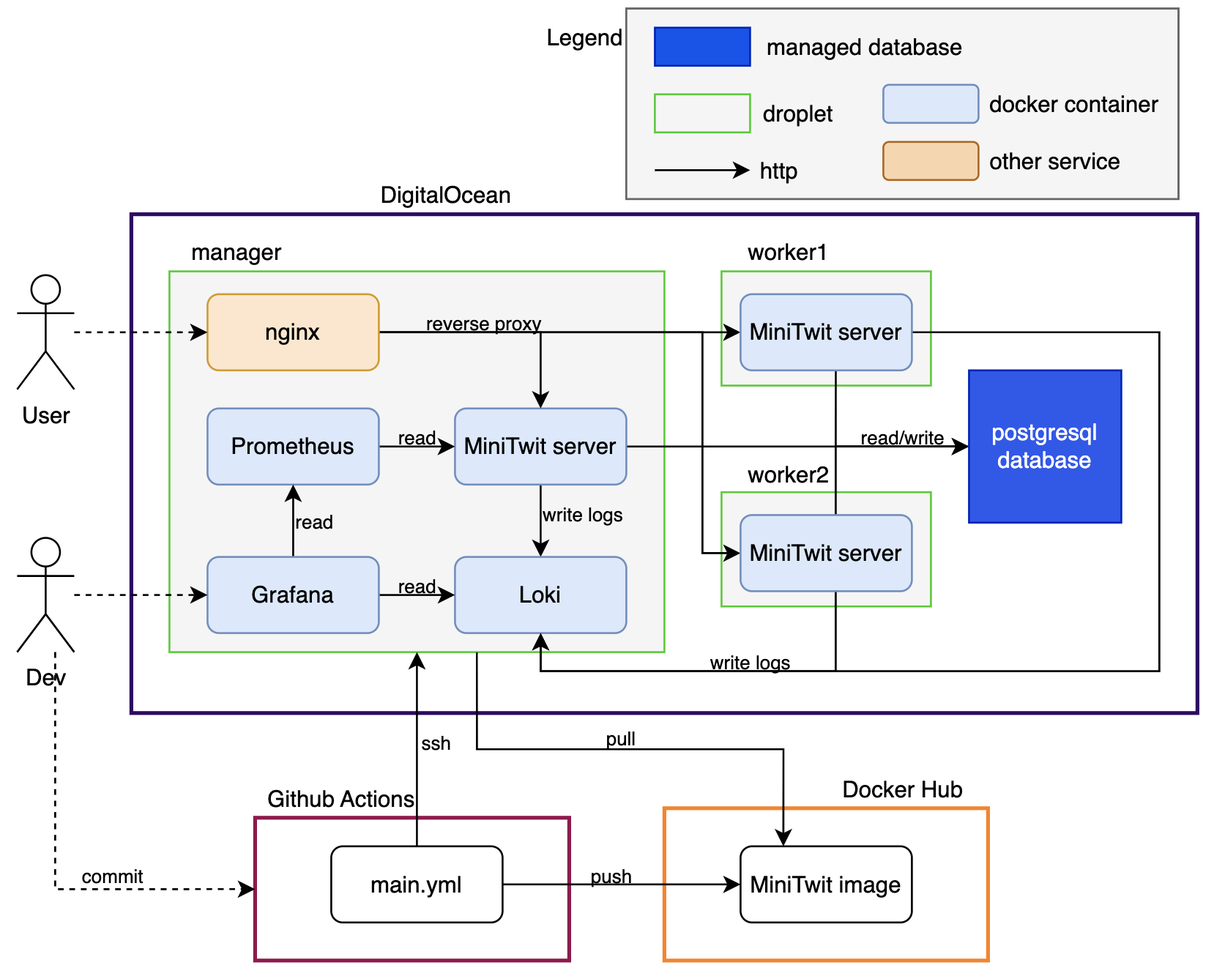
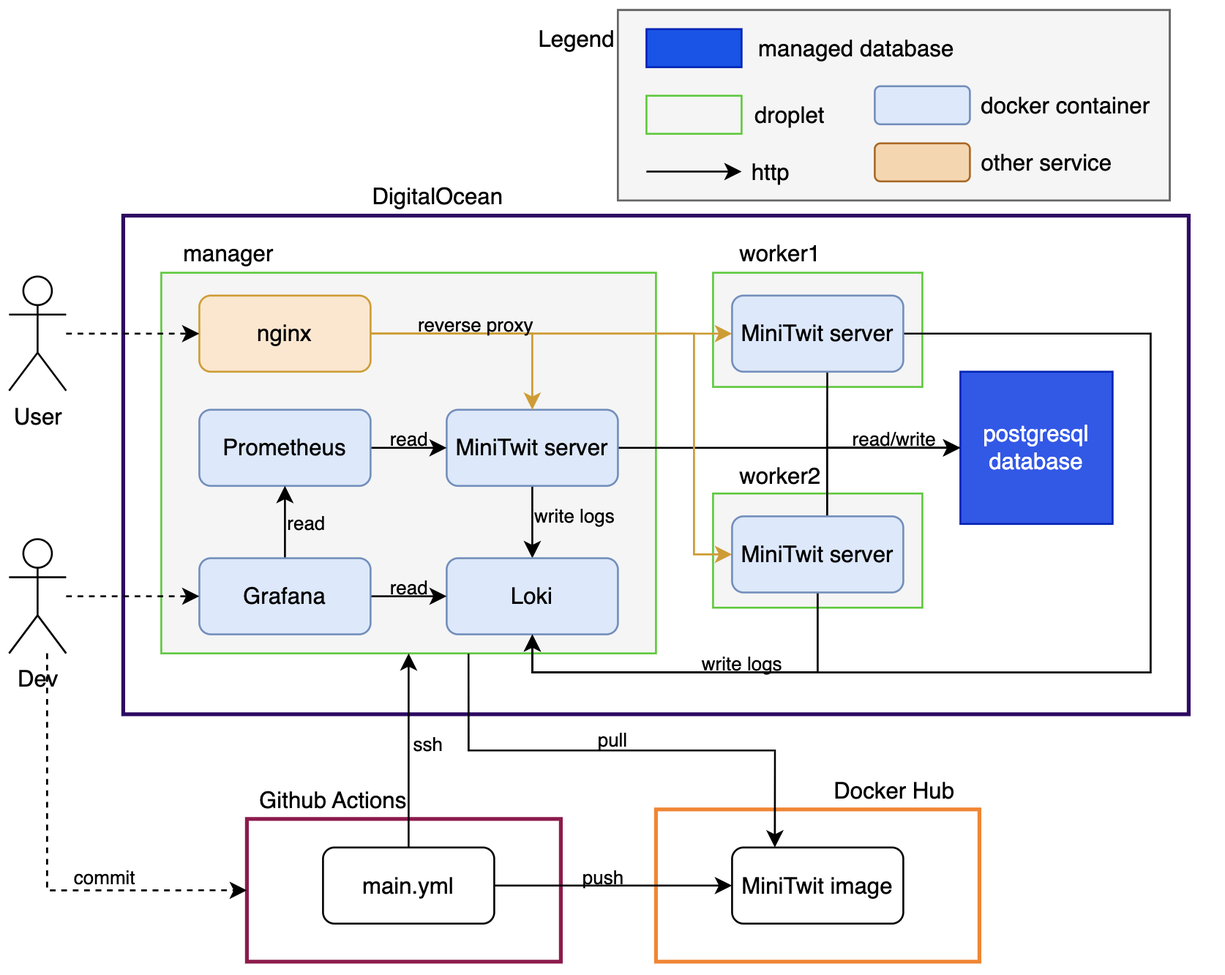
ci: Push final report

diff --git a/report/2_process_perspective.tex b/report/2_process_perspective.tex
@@ -31,76 +31,81 @@ Within the period where the project was worked on, the team formed some rules an
 
 \noindent To ensure flow, we did the following:
 \begin{itemize}
-    \item Made work visible by using the GitHub Kanban board.
-    \item Reduced batch sizes by focusing on getting one feature done before moving focus to another.
-    \item Reduced the number of handoffs by only working on a few features at a time,
-    \item Continually identified and evaluated constraints using GitHub issues if problems occurred.
-    \item Eliminated hardship and waste in the value stream by implementing automatic releases in our pipeline.
+    \item Mostly through communication on discord, but also through the use of Github projects, we made work visible and transparent for each other. % make work visible
+    \item Utilized a small batch strategy, where single features are developed, pushed, and deployed at a time. % reduce batch sizes
+    \item By utilizing continuous integration and deployment we limited the amount of intermediary steps, which had to be manually executed. % reduze handoffs
+    \item By being aware of what limitations our architecture and processes bring. Early on we realized that our CI/CD tools making a new database at each deployment was not a good idea, and moved to a managed database. %evaluate constraints 
+    \item We tried to reduce working on tasks which did not grant any value to the customer by minimizing dead code, feature switching, and manual work. %eliminate hardships
 \end{itemize}
 
 \noindent To ensure feedback, we did the following:
 \begin{itemize}
-    \item Discovered problems as they occurred and communicated them to the team.
-    \item Swarmed and solved problems to build new knowledge and share that knowledge with the rest of the group.
-    \item Kept pushing quality closer to the source using a trunk-based strategy that tested each push to the main branch.
+    \item We used logs, monitoring, and testing to automate quality checking and see problems as they occurred, and communicated them to the team, if they could not be solved immediately. % see problems as they occur
 \end{itemize}
 
 \noindent To ensure continual learning and experimentation, we did the following:
 \begin{itemize}
-    \item Institutionalized the improvement of daily work by keeping an open discussion about what we can do better.
-    \item Ensuring a learning culture by sharing knowledge at weekly meetings.
+    \item We kept an open discussion about what we could improve and automatize in our work such as when we automatized releases.
+    \item Ensuring a learning culture by sharing knowledge at weekly meetings and being open about personal strengths and weaknesses. 
 \end{itemize}
 
 \subsubsection{Working schedule}
-The team's interaction has been physical at ITU and online through Discord. The primary working day was Tuesday after the exercise session. First, we solved the exercises together and then implemented the feature in our system. If there were leftover work, we would split into subgroups, as different schedules made it difficult to meet physically more than once a week. Since most of the features and tools were new to the group, the overall focus was on implementing and correctly using them. This led us to use pair programming, where one team member shared his screen, and others provided input. The other team members would write code individually if the work were trivial. Furthermore, the team members who were not sharing their screens would, under any circumstances, try to test or solve things on their machines. This was to speed up the process, especially when working with something we did not initially understand. \\
+The team's interaction has been physical at ITU and online through Discord. The primary working day was Tuesday after the exercise session. First, we solved the exercises together and then implemented the feature in our system. If there were leftover work, we would split into subgroups, as different schedules made it difficult to meet physically more than once a week. Since most of the features and tools were new to the group, the overall focus was on implementing and correctly using them. This led us to use pair programming, where one team member shared his screen, and others provided input. The other team members would write code individually if the work were trivial. This was to speed up the process, especially when working with something we did not initially understand.
 
 We incorporated retrospectives from Scrum every Tuesday before we began working on the following week's tasks. This means that we discussed what had been implemented since last Tuesday to share our individual knowledge with the group.
 
 \subsection{CI/CD}
-We used GitHub Actions to implement our CI/CD. Our CI/CD consists of test, deploy, release, and code quality analyzer. We used Trunk Based Development, where every developer shared the same trunk branch. Every developer pushed to the main branch for efficiency. Upon push, GitHub Actions will run the following steps:
+We used GitHub Actions to implement our CI/CD. Our CI/CD consists of test, deploy, release, and code quality analyzer. When a developer pushes his commits, GitHub Actions will run the following steps:
 
 \subsubsection{Code quality analyzer}
-SonarCloud was used as a code quality analyzer to analyze the technical debt of the code base. Our repository contains badges about technical debt, security, vulnerabilities, and bugs based on the latest commit to SonarCloud. We also used the C\# linting tool \textit{code-cracker}, but this was only used when building on developer machines and not a part of the workflow. Furthermore, we have used Snyk to scan the project, which is not part of the workflow.
+SonarCloud was used as a code quality analyzer to analyze the technical debt of the code base. Our repository contains badges about technical debt, security, vulnerabilities, and bugs based on the latest commit to SonarCloud. We also used the C\# linting tool \textit{code-cracker}, but this was only used when building on developer machines and not a part of the workflow. Furthermore, we have used Snyk to scan the project, which is not part of the workflow either.
 
-\subsubsection{Test}
-We have different tests as a quality gate before deploying and releasing. First, we have a smoke test to verify that essential elements of the application are functional. Second, we use integration tests to test the API. Last, we use Selenium for end-to-end tests.
+\subsubsection{Build and Test}
+We have different tests as a quality gate before deploying and releasing. We have refactored and expanded the Python tests from the exercises. The system is built on the workflow server via Docker-Compose. First, we have a smoke test to verify that essential elements of the application are functional. Second, we use integration tests to test the API. Last, we use Selenium for end-to-end tests. The Python tests interact with the system via HTTP.
 
 \subsubsection{Deployment}
-If the tests are successful, the push will be deployed. We have omitted code reviews and branches to push new code faster. This is to prevent potential dead, local code that is not being used since we value that our code should be used when it works.
+If the tests are successful, the push will be deployed. First the new image for the application server is pushed to Docker Hub. Then, via ssh, a script is executed on the deployed manager node which pulls the image and redeploys the system.
+
+%We have omitted code reviews and branches to push new code faster. This is to prevent potential dead, local code that is not being used since we value that our code should be used when it works.
 
 \subsubsection{Release}
-After deploying the application, we use Versionize and Husky for automatic releases on GitHub.
+After deploying the application, we use Versionize and Husky for automatic releases on GitHub. Husky is a linter for commit messages, which checks that a commit message contains the right format. Versionize increments the release version when desired. If the deploy was successful, and the commit message increments the release tag, then our pipeline creates a new release.
 
 \subsection{Repository organization}
-We use a mono repository for our source code, both frontend, and backend. As mentioned, we have a trunk-based development, meaning developers push directly to the main branch. If the commits pass the GitHub Workflow, then they will be released. We omitted code reviews because we thought it took too much time to do them, and since we often worked together physically, we mostly already knew what each other had written. Initially, we considered using it for knowledge sharing. However, since we used pair programming, we already had a way of knowledge sharing. Since we did not have code reviews, we wanted to be able to release code as fast as possible, which is why we used trunk-based development.
+We use a mono repository for our source code. We have a trunk-based development, meaning developers push directly to the main branch. If the commits pass the GitHub Workflow, then they will be released. We omitted code reviews because we thought it took too much time to do them. Initially, we considered using it for knowledge sharing. However, since we used pair programming, we already had a way of knowledge sharing. This way we could release new code fast.
 
 \subsection{Development Process}
-To track issues and which tasks need to be done, we have to some degree, utilized GitHub Projects, which provides Kanban boards. We have not used this feature rigorously since the course structure already provided some structure of what needed to be done and when. The primary usage has been when we split our group into many parts (individual work) and needed to keep track of it. Mostly development has happened in group work, either all together or split into two groups. Since our project and group size are manageable, it is still possible to hold developers accountable by reviewing the commit history. However, a more rigorous use of the Kanban board would have made it possible to measure implementation progress retroactively. 
+To keep track of issues and tasks which need to be done, we have experimented with using GitHub Projects as a Kanban board. We have not used this feature rigorously since the course structure already provided some structure of what needed to be done and when. The primary usage has been when we split our group into many parts (individual work) and needed to keep track of it. Mostly development has happened in group work, either all together or split into two groups. Since our project and group size are relatively small, it is still possible to hold developers accountable by reviewing the commit history. However, a more rigorous use of the Kanban board would have made it possible to measure implementation progress retroactively. 
 
 \subsection{Monitoring \& Logging}
-During the lifetime of a system, it is rare for everything to work smoothly and without any problems. System components will break down. The system will crash in production, server response times will grind to a halt, and so on. To (1) be able to estimate when the system is not operating within the expected limits and (2) be able to track down the source of this disturbance, it is necessary to have monitoring and logging setup in the project. \\
+During the lifetime of a system, it is rare for everything to work smoothly and without any problems. System components will break down. The system will crash in production, server response times will grind to a halt, and so on. To (1) be able to estimate when the system is not operating within the expected limits and (2) be able to track down the source of this disturbance, it is necessary to have monitoring and logging setup in the project.
 
-Our monitoring is done via Grafana dashboards, where we have created two dashboards: One for system metrics (RAM, CPU usage, response times) and one for business logic (active users, timeline requests, number of tweets made). When the first dashboard showed irregular behavior, it was a sign that our virtual machine in the cloud required scaling - or that poorly performing code had been pushed recently. When the second dashboard showed irregular behavior, it was a sign that our website was not deployed properly and was inaccessible to users or that some recently pushed code had broken core functionality. \\
+Our monitoring is done via Grafana dashboards, where we have created two dashboards: One for system metrics (RAM, CPU usage, response times) and one for business logic (active users, timeline requests, number of tweets made). When the first dashboard showed irregular behavior, it was a sign that our virtual machine in the cloud required scaling - or that poorly performing code had been pushed recently. When the second dashboard showed irregular behavior, it was a sign that our website was not deployed properly and was inaccessible to users or that some recently pushed code had broken core functionality.
 
-We have implemented a logging tool to track how many requests our system has in real-time. Each time a new user is created, an existing user logs in, a user makes a post, or a user follows another user, the API call is registered and saved in the logs. This allows us to determine whether or not something is wrong in case these API calls fail. 
+We have implemented logging with Loki and Grafana to track all request the system handles. This allows us to determine whether or not something is wrong in case these API calls fail. We have a dashboard on Grafana that displays errors and all logs. Figure \ref{fig:errors_no_db} shows the logs immediately after destroying the database. Here we can see that errors surface.
+
+%Each time a new user is created, an existing user logs in, a user makes a post, or a user follows another user, the API call is registered and saved in the logs. This allows us to determine whether or not something is wrong in case these API calls fail. 
 
 \begin{figure}[H]
     \centering
-    \subfloat[\centering A snippet of our logs showing the API calls registered]{{\includegraphics[width=0.45\textwidth]{images/logs_good.png} }}%
+    \subfloat[\centering The logs showing the API calls registered]{{\includegraphics[width=0.45\textwidth]{images/logs_good.png} }}%
     \qquad
-    \subfloat[\centering A snippet of our logs when we took down the database]{{\includegraphics[width=0.45\textwidth]{images/logs_bad.png} }}%
-    \caption{2 Figures side by side}%
+    \subfloat[\centering The logs when we took down the database]{{\includegraphics[width=0.45\textwidth]{images/logs_bad.png} 
+    \label{fig:errors_no_db}
+    }}%
+    \caption{Logs.}%
     \label{fig:example}%
 \end{figure}
 
-When we had to change the database, we first had to take it down. This is visible in our logs since we began getting a lot of errors when this was the case. This was ultimately a good sign since it meant that if something were wrong in our system, we would be able to see it immediately and fix it as fast as possible. \\
+%When we had to change the database, we first had to take it down. This is visible in our logs since we began getting a lot of errors when this was the case. This was ultimately a good sign since it meant that if something were wrong in our system, we would be able to see it immediately and fix it as fast as possible. \\
 
-Whenever we had downtime, new users could not be registered. However, the logs helped us with this since we had a script that could create the users from the logs directly, such that when the system was up and running again, the users who tried to register during downtown would now be registered in the database.
+%Whenever we had downtime, new users could not be registered. However, the logs helped us with this since we had a script that could create the users from the logs directly, such that when the system was up and running again, the users who tried to register during downtown would now be registered in the database.
 
 \subsection{Scaling And Load Balancing}
-Our load balancing is separated for a 'normal' user and the course simulator. When a request is made through the simulator API, we have decided to use a round-robin approach to load balancing, which means the request is just sent to some container. However, when a connection is established through the website, we are using an IP hash approach. This means that the same user is always directed to the same container, which ensures that we do not have to worry about the user changing session states when the connection is renewed. \\
+Our load balancing uses different strategies for a 'normal' user and the course simulator. When a request is made to the \textit{/simulator} endpoint, it uses the round-robin approach, which means the request is sent to any of the active servers, distributing the simulator requests across all the active servers. However, when a connection is established through the website, we are using an IP hash approach. This means that the same user is always directed to the same server, which ensures that the user session is preserved.
 
-It has not been necessary to establish a scaling strategy due to the scope of the course. Our monitoring has never indicated this to be necessary. If our current system is overloaded, it would be required to scale vertically or horizontally. Our system makes it easy to scale horizontally, the only real change being having to change our infrastructure as code scripts. Scaling vertically is easy through Digital Ocean.
+Scaling can be done horizontally by adding more nodes to the docker swarm. In our deployment we were using three droplets of the second lowest tier on DigitalOcean. So if scaling becomes necessary it will make more sense to start with vertical scaling by provisioning some virtual machines with more dedicated memory and processing power.
+%It has not been necessary to establish a scaling strategy due to the scope of the course. Our monitoring has never indicated this to be necessary. If our current system is overloaded, it would be required to scale vertically or horizontally. Our system makes it easy to scale horizontally, the only real change being having to change our infrastructure as code scripts. Scaling vertically is easy through Digital Ocean.
 
 \subsection{Security Assessment}
 We decided to do a security assessment to discover potential security flaws in our system implementation. This was done through the following process: 
@@ -119,11 +124,13 @@ We decided to do a security assessment to discover potential security flaws in o
     \label{fig:securityAssessmentTable}
 \end{figure}
 
-A report of our entire process can be found in appendix \ref{appendix:securityAssessment}. The security assessment matrix can be seen in figure \ref{fig:securityAssessmentTable}. The table shows us that the most critical scenario is (B) attacker performing a DDOS attack to make our server unresponsive. This would make our service useless and could be very bad for business. However, there is no imminent way to mitigate this other than scaling the application, having a load balancer, or paying for DDOS protection. Our system has a load balancer, but the other options were deemed to be outside this project's scope. \\
+A report of our entire process can be found in appendix \ref{appendix:securityAssessment}. The security assessment matrix can be seen in figure \ref{fig:securityAssessmentTable}. The table shows us that the most critical scenario is (B) where an attacker performs a DDOS attack to make our server unresponsive. This would make our service useless and could be very bad for business. However, there is no imminent way to mitigate this other than scaling the application, having a load balancer, or paying for DDOS protection. Our system has a load balancer, but the other options were deemed to be outside this project's scope.
 
-While the security assessment has helped us realize which parts of the system are most vulnerable and how they might be attacked, it does not guarantee that our system is not exploitable or that every possible scenario is considered. The most typical way to discover security flaws is when an attacker takes advantage of them. The security assessment did, however, give us confidence that the most ordinary tools for discovering weaknesses didn't find anything on our system. Based on our findings, changing any parts of the system was unnecessary.
+While the security assessment has helped us realize which parts of the system are most vulnerable and how they might be attacked, it does not guarantee that our system is not exploitable or that every possible scenario is considered. The most typical way to discover security flaws is when an attacker takes advantage of them. The security assessment did, however, give us confidence that the most ordinary tools for discovering weaknesses didn't find anything on our system. 
+
+We have also used Snyk for checking vulnerabilities in the system. Based on our findings, changing any parts of the system was unnecessary.
 
 \subsection{AI assistants}
-In this project, we used ChatGPT. It did not write any of our source code, but it was helpful for error handling. When googling an error, finding the correct stack overflow response can sometimes be difficult, whereas, with ChatGPT, we could paste the error message, and it could often point us in the right direction. It has also been useful for setting up Nginx and docker swarm. For instance, ChatGPT provided help on how to use IP hash. \\
+In this project, we used ChatGPT. It did not write any of our source code, but it was helpful for error handling. When googling an error, finding the correct stack overflow response can sometimes be difficult, whereas, with ChatGPT, we could paste the error message, and it could often point us in the right direction. It has also been useful for setting up Nginx and docker swarm. For instance, ChatGPT provided help on how to use IP hash for keeping sessions while using load balancers.
 
-We tried not to rely on it too much to keep the work as authentic as possible. While getting help from it can be helpful, we never copy/pasted anything it gave us. Instead, we used ChatGPT as an extra TA.
+%We tried not to rely on it too much to keep the work as authentic as possible. While getting help from it can be helpful, we never copy/pasted anything it gave us. Instead, we used ChatGPT as an extra TA.

diff --git a/report/1_system_perspective.tex b/report/1_system_perspective.tex
@@ -14,23 +14,23 @@
 
 \subsection{Design and architecture}
 
-The technologies we selected to recreate the legacy flask application ITU-MiniTwit, were C\# with the ASP.NET Core framework for the server and Postgresql as the database. The decision to use ASP.NET Core was made based on the team's prior experience, which enabled us to implement the legacy Flask application's features quickly. Another reason for our selection is that with the performance enhancements of .NET 7, this is a very well performing framework\footnote{14th in this benchmark: 
-\url{https://www.techempower.com/benchmarks/#section=data-r21}}. This can also be seen in our group's solution being one of the tops performing in this chart: \url{http://104.248.134.203/chart.svg}. \\
+The technologies we selected to recreate the legacy Flask application ITU-MiniTwit, were C\# with the ASP.NET Core framework for the server and Postgresql as the database. The decision to use ASP.NET Core was made based on the team's prior experience, which enabled us to re-implement the Flask application's features quickly. Another reason for our selection was that with the performance enhancements of .NET 7, this is a very well performing framework\footnote{14th in this benchmark: 
+\url{https://www.techempower.com/benchmarks/\#section=data-r21}}. \textit{README.md} in our GitHub repository contains instructions on how to run and deploy the system.
+%This can also be seen in our group's solution being one of the top performing in this chart: \url{http://104.248.134.203/chart.svg}.
 
-We used Razor pages to render the web pages on the server side. We also considered creating a single-page application as a frontend, such as with Blazor or React, as this would be the more modern approach. However, we stuck with using Razor pages to replicate the original Flask application as much as possible. Further explanation is given in section \ref{evoref}. \\
+Figure \ref{fig:miniTwitApiOverview} shows the internal design of the MiniTwit application. We used Razor pages to render the web pages on the server side. For the course simulator to send request to our system we created an API at \textit{/simulator}.
+%Over four weeks, the simulator provided our system with over 4 million messages/posts and nearly 13 million API calls.
 
 \begin{figure}[H]
     \centering
     \includegraphics[width=\textwidth]{images/miniTwitServerOverview.png}
-    \caption{Architecture of the MiniTwitApi component}
+    \caption{Design of the MiniTwit service.}
     \label{fig:miniTwitApiOverview}
 \end{figure}
 
-For the illustration of the activity on our Minitwit website, we created an API that the simulator could communicate with. Over four weeks, the simulator provided our system with over 4 million messages/posts and nearly 13 million API calls. \\
+Figure \ref{fig:architecture} shows the architecture of the final version of the system that was deployed, using three droplets (virtual machines) on DigitalOcean. Docker containers are within a docker swarm consitsting of one manager and two workers. There are three replicas of the MiniTwit server in the swarm, one on each droplet, to ensure availability. The two worker nodes only contain an instance of the MiniTwit server, while the manager includes load balancing, logging, and monitoring services. We decided to keep all these services on the same node to be accessible on the same IP address. Nginx is used for load balancing between the MiniTwit instances. Rolling updates are implemented through the docker swarm.
 
-Figure \ref{fig:architecture} shows the architecture of the final version of the system that was deployed, using three droplets (virtual machines) on DigitalOcean. Docker containers are within a docker swarm and communicate via the internal overlay network. There are three replicas of the MiniTwit server in the swarm, one on each droplet, to ensure availability. The two worker nodes only contain an instance of the MiniTwit server, while the manager includes load balancing, logging, and monitoring services. We decided to keep all these services on the same node to be accessible on the same IP address. Nginx is used for load balancing between the MiniTwit instances.
-
-The database was hosted as a DigitalOcean-managed database so that it was guaranteed to be reliable. Initially, we managed the Postgres database ourselves. However, one day, it suddenly crashed, which caused approximately 12 hours of downtime. We decided to switch to a managed database in our deployment to avoid worrying about this. Running our \textit{infrastructure.sh} script, which deploys the entire system and provisions the infrastructure on DigitalOcean, will make the database a container in the swarm. Rolling updates are implemented through the docker swarm.
+The database was hosted as a DigitalOcean managed database so that it was guaranteed to be reliable. Initially, we managed the Postgres database ourselves. However, one day, it suddenly crashed, which caused approximately 12 hours of downtime. We decided to switch to a managed database in our deployment to avoid worrying about this.
 
 \begin{figure}[H]
     \centering
@@ -41,7 +41,7 @@ The database was hosted as a DigitalOcean-managed database so that it was guaran
 
 \subsection{Technologies and Dependencies}
 
-The technologies we have decided on for the system to rely on are listed below. All versions used were the most recent stable releases as of the start of 2023:
+The technologies the system uses and depends on are listed below. All versions used were the most recent stable releases as of the start of 2023:
 
 \begin{itemize}
     \item \textbf{ASP.NET Core}, for the web application.
@@ -75,14 +75,12 @@ The technologies we have decided on for the system to rely on are listed below. 
 
 \subsection{Important interactions of subsystems}
 
-Figure \ref{fig:architecture} shows the interactions of the subsystems. Docker containers communicate via the internal network within the swarm.
+Figure \ref{fig:architecture} also shows the interactions of the subsystems. Docker containers communicate via the internal network within the swarm. A user accesses the system via the address of the Nginx load balancer which reverse proxies to one of the active MiniTwit servers. The logging libraries we have used allows our MiniTwit servers ship logs itself, avoiding the need to have a log shipper instance, such as Promtail, on every node in the swarm.
 
-When a developer pushes to the main branch on GitHub, the \textit{main.yml} workflow is run. First, the system is built on the workflow server via Docker-Compose, then the Python tests interact with the system via HTTP. We have refactored and expanded the Python tests from the exercises. If the tests all pass, the workflow pushes the new MiniTwit image to Docker Hub. It then utilizes ssh to execute a script on the manager node, which pulls the image and updates the workers. Finally, a GitHub release is created by the workflow.
-
-A shortcoming of our chosen architecture is that Prometheus only reads from one of the MiniTwit server instances, the one on the same node. Since the load is balanced, only 33\% of the traffic is monitored by metrics. This is not optimal since it does not give all of the information. However, it presents a snippet of the system's monitoring. The same problem appeared with the real-time updates implemented with SignalR. Because of the load balancing, only every third message will, on average, appear for the user without reloading the page.
+A limitation of our chosen architecture is that Prometheus only reads from one of the MiniTwit server instances, the one on the same node. Since the load is balanced, only 1/3 of the traffic is monitored by metrics, and visible in Grafana. A similar problem appeared with the real-time updates we implemented with SignalR. Because of the load balancing, only every third message will, on average, appear for the user without reloading the page.
 
 \subsection{Current state of systems}
-Due to our project utilizing infrastructure as code, it is possible to turn the system on/off quickly. When writing this report, we have turned the system off to minimize payments to Digital Ocean. When turning our system on, everything works as expected. However, there is little to no traffic since the simulator has stopped. The current code quality can be seen on our SonarQube page, which is showcased in figure \ref{fig:sonarQubeOverview}.
+Due to our project utilizing infrastructure as code, it is possible to turn the system on/off quickly. We have created a script, \textit{infrastructure.sh}, which deploys the entire system and provisions the infrastructure on DigitalOcean. When writing this report, we have turned the system off to minimize payments to Digital Ocean. When turning our system on, everything works as expected. The current code quality can be seen on our SonarQube page, which is showcased in figure \ref{fig:sonarQubeOverview}.
 
 \begin{figure}[H]
     \centering
@@ -93,7 +91,10 @@ Due to our project utilizing infrastructure as code, it is possible to turn the 
 
 %\todo[inline]{her kunne man lave sådan noget future work, altså hvis vi skulle arbejde videre på det hvad ville vi så lave?}
 
-For future work on the project, it would make sense to perfect the load-balancing aspect of the dockerized swarm. For example, the current setup means that Grafana only shows 1/3 of metrics, and when a user is connected to a MiniTwit server via WebSockets, this user would only receive 1/3 of new tweets. Currently, the WebSockets only send messages to clients when a change happens on the server instance, not when a change occurs in the database.
+The current architecture and infrastructure comfortably handles the load of the simulator using three DigitalOcean droplets, which is likely overkill.
+
+If we were to continue working on the system, a thing that we would work on is fixing the issues currently caused by having load balanced between multiple instances of the application server. Namely that 2/3 of metrics are not captured by Prometheus.
+%For future work on the project, it would make sense to perfect the load-balancing aspect of the dockerized swarm. For example, the current setup means that Grafana only shows 1/3 of metrics, and when a user is connected to a MiniTwit server via WebSockets, this user would only receive 1/3 of new tweets. Currently, the WebSockets only send messages to clients when a change happens on the server instance, not when a change occurs in the database.
 
 \subsection{License of our systems}
 As we use the MIT license, and most of the direct dependencies use AGPLV3, we do not have any license conflicts. Our API also has an SLA.

diff --git a/report/3_lessons_learned_perspective.tex b/report/3_lessons_learned_perspective.tex
@@ -13,25 +13,30 @@
 %Also reflect and describe what was the "DevOps" style of your work. For example, what did you do differently to previous development projects and how did it work?
 
 \subsection{Evolution and refactoring} \label{evoref}
-As mentioned, we initially wanted to use Blazor to develop the application. However, because of the limited time for refactoring, we switched to Razor pages, as we estimated that it required a third of the code. Furthermore, the code base would be much more similar to the project we had to refactor. Blazor is notoriously known for splitting up the model, view, and controller, which is not the case with Razor.
+Initially, we created a single-page application with Blazor for the frontend of our app, which we spent a lot of hours working on the first weeks. However we realized that creating and maintaining a SPA would be much more work, we estimated it would take at least twice the amount of code. Therefore we switched to server side rendering with Razor (commit \href{https://github.com/NiclasHjortkjaer/itu-minitwit/commit/6f1f4c0fde3a84cd562ba9b5271dc39a572e10c9}{6f1f4c0}) which had the upside that it is a much more similar approach to the legacy Flask application, which made it easier to implement the features. What we took away from this is that it is important not to over-engineer a system and choose unnecessary complexity just because it is more modern.
 
 \subsection{Operations}
 We discovered the importance of knowledge sharing. We quickly found that when we did not share what we had done to the project since last week, it took time for all members to have an overview of the entire system. To solve this issue, we started using retrospectives as a way of sharing knowledge every Tuesday before the next week's task.
 
-\subsection{Limited work time}
-One of the most significant issues the group faced was our limited work time. Since the project was rather extensive, and the amount of new tools that should be incorporated was large, it required much time from the group members. This was an issue since we primarily only had Tuesday as the day when we met physically. We all agreed that we work better when in the room together, and this was not easy to do every time. The result of this issue was that we sometimes had to work until the late evening hours on Tuesdays and work only on essential parts of the application. Still, it was a price that we were willing to pay not to have to work more online than we already did.
+% \subsection{Limited work time}
+% One of the most significant issues the group faced was our limited work time. Since the project was rather extensive, and the amount of new tools that should be incorporated was large, it required much time from the group members. This was an issue since we primarily only had Tuesday as the day when we met physically. We all agreed that we work better when in the room together, and this was not easy to do every time. The result of this issue was that we sometimes had to work until the late evening hours on Tuesdays. Still, it was a price that we were willing to pay not to have to work more online than we already did. The primary takeaway was  that we should only work on essential parts of the application when the task for the week was large.
+% \todo{we kunne godt overveje at cutte den her}
 
-\subsection{Major lessons learned}
-\begin{enumerate}
-    \item We learned a lot of new tools such as Grafana, Prometheus, Vagrant, and Digital Ocean, among others. We also reinforced our learning and learned more about tools like Bash, Docker, and Github.
-    \item We learned how to use the DevOps theory in practice on a project, which helps a lot with understanding the concepts more thoroughly.
-    \item We learned what it felt like to work with a DevOps approach, which many companies use in real life.
-    \item We learned and understood how one should think when working with DevOps since this is a very different way of thinking about the project and the code compared to not using a DevOps approach.
-    \item We learned about the value of automating work: E.g., turning the entire application on/off with a single script.
-    \item We learned about the practical sides of writing code meant to be published. 
-\end{enumerate}
+\subsection{Value of Logging}
+This project was the first time any of us had implemented a system with proper logging, which we found extremely valuable.
 
-\subsection{The differences with DevOps}
-Many previous projects we have worked with on ITU have not used a DevOps approach. This resulted in many of the things we did, the technologies we used, and how we had to think about the project changed substantially. All group members were writing their bachelor thesis while having this course, and none related to DevOps. This gives an obvious comparison between the applied work ethics in the two respective courses.  \\
+An example of when our logs were helpful was after we had the previously mentioned 12 hours of downtime due to our self-managed database crashing. We then had error logs for when the simulator attempted to post a message or follow with a user that had never been created due to the downtime. We then extracted all the usernames from the error logs and created a script to create the missing users in the system.
 
-Usually, we do not prioritize committing and pushing code as soon as it works in small steps. Instead, we usually only push when we have to merge our code with what the others have written. This is in sharp contrast to the DevOps approach we had in this course, where we would always commit, push (and, when the pipeline was set up correctly, release) when we had something that worked. The DevOps approach led to fewer merge conflicts than in our previous projects, resulting in our code being live faster. If one has code locally on their device without it being released, it is considered dead code since it is not used.
+Another instance when our logs were helpful was when the public timeline page of our application began to feel very slow. We could see in our logs that the query which found the newest messages took approximately 1,000 ms to return. The fix was easy, we created an index on the date which the query sorts by (commit \href{https://github.com/NiclasHjortkjaer/itu-minitwit/commit/d0996e8471bcbf364be5260702bc41719452bbca}{d0996e8}), suddenly the page loading felt much faster. We could assert this in the logs with the query now taking around 5 ms to return.
+
+\subsection{Difficulties of updating a live system}
+Initially, we had no docker swarm and no reverse proxy. At a moment, we wanted to implement HTTPS connection for our system. The MiniTwit application was listening to port 80 on our live DigitalOcean droplet which now had to be freed for the Nginx reverse proxy which applied the SSL certificate. What we decided to do was quickly take the system down and swap the ports. However, it took many attempts to get the HTTPS connection working, causing us to take the system down multiple times. Summed up, this probably caused around 3 hours of outage. This would not be acceptable for a real world system and it could have been a violation of our SLA.
+
+In retrospective what we could have done was redeployed the entire system on different infrastructure, debugged there, and then pointed our DigitalOcean reserved IP to the new system without causing outage. Overall the takeaway for our group is how difficult it is to update a live system. Luckily, the tests in our CI/CD pipeline assured that code that would break the system was never deployed during the course.
+
+
+% \subsection{The differences with DevOps}
+% We had no prior experience with a DevOps approach at ITU. This resulted in many of the things we did, the technologies we used, and how we had to think about the project changed substantially. 
+
+% Usually, we do not prioritize committing and pushing code as soon as it works in small steps. Instead, we usually only push when we have to merge our code with what the others have written. This is in sharp contrast to the DevOps approach we had in this course, where we would always commit, push (and, when the pipeline was set up correctly, release) when we had something that worked. The DevOps approach led to fewer merge conflicts than in our previous projects, resulting in our code being live faster. If one has code locally on a device without it being released, it is considered dead code since it is not used.
+% \todo{Sidste afsnit skal måske indeholde begreber som value stream, continuous delivery og continues integration}

diff --git a/report/4_appendix.tex b/report/4_appendix.tex
@@ -81,23 +81,3 @@ Ud fra vores matrix kan vi se at de vigtigste scenarier at gøre noget ved er B
 
 For at fikse B kan vi:
 Load balancing
-
-
-\subsection{Logs}
-\subsubsection{Session 2}
-\begin{itemize}
-    \item We have decided to write in C\# and dotnet since that is the language most of us are comfortable with.
-    \item The folder structure of the legacy project is not that good. We therefore set up a new folder structure following the MVC pattern.
-    \item We struggled a lot and needed to make a lot of changes to make the program work. 
-\end{itemize}
-
-\subsubsection{Session 3}
-\begin{itemize}
-    \item We are not taking small steps. We took a big step in trying to implement it in a different way. Lukas has made it just using razor pages instead. This makes an exact copy of the project. This is the correct way to do it. Therefore we will build our main branch based on that.
-    \item We have made the Simulator and tested it. It should work. For the “latest” endpoint we have created a static variable that can be used. Maybe this is a bit scuffed since it can lead to race conditions if multiple people try to access the resource. But let's see.
-    \item We have changed the database to a postgres database so it should be better when a lot of users start using the program. The database also runs in another docker image now.
-    \item We have tested the simulator with the test program provided in the project work, and the program seems to run as it should.
-\end{itemize}
-
-\subsubsection{Session 5}
-Consider how much you as a group adhere to the "Three Ways" characterizing DevOps (from "The DevOps Handbook"):

diff --git a/report/main.tex b/report/main.tex
@@ -6,7 +6,7 @@
 \usepackage{outlines}
 \usepackage{todonotes}
 \usepackage{enumitem}
-\usepackage{url}
+\usepackage{hyperref}
 \setlist{nolistsep}
 \linespread{1.2}
 \usepackage[a4paper, lmargin=0.1666\paperwidth, rmargin=0.1666\paperwidth, tmargin=0.1111\paperheight, bmargin=0.1111\paperheight]{geometry}
@@ -15,11 +15,15 @@
 \author{ Casper Wassar Skourup - caws@itu.dk\\ Lukas Hjelmstrand - luhj@itu.dk \\ Mads Piriwe Risom Andersen - mpia@itu.dk \\ Niclas Søgaard Hjortkjær - nihj@itu.dk \\ Villum Nils Robert Sonne - vson@itu.dk }
 \date{24/05-2023 \\ \vspace{4cm}
 \texttt{DevOps, Software Evolution and Software Maintenance, BSc} \\\texttt{Course code: BSDSESM1KU}
-\\ \vspace*{\fill} Github link: \url{https://github.com/NiclasHjortkjaer/itu-minitwit} \\ Webite link: \url{http://jasonderulo.live} \\ Simulator link: \url{http://jasonderulo.live/simulator}}
+\\ \vspace*{\fill} Github link: \url{https://github.com/NiclasHjortkjaer/itu-minitwit}}
 
 \begin{document}
 
 \maketitle
+
+\newpage
+
+\tableofcontents
 
 \input{1_system_perspective}
 \input{2_process_perspective}
